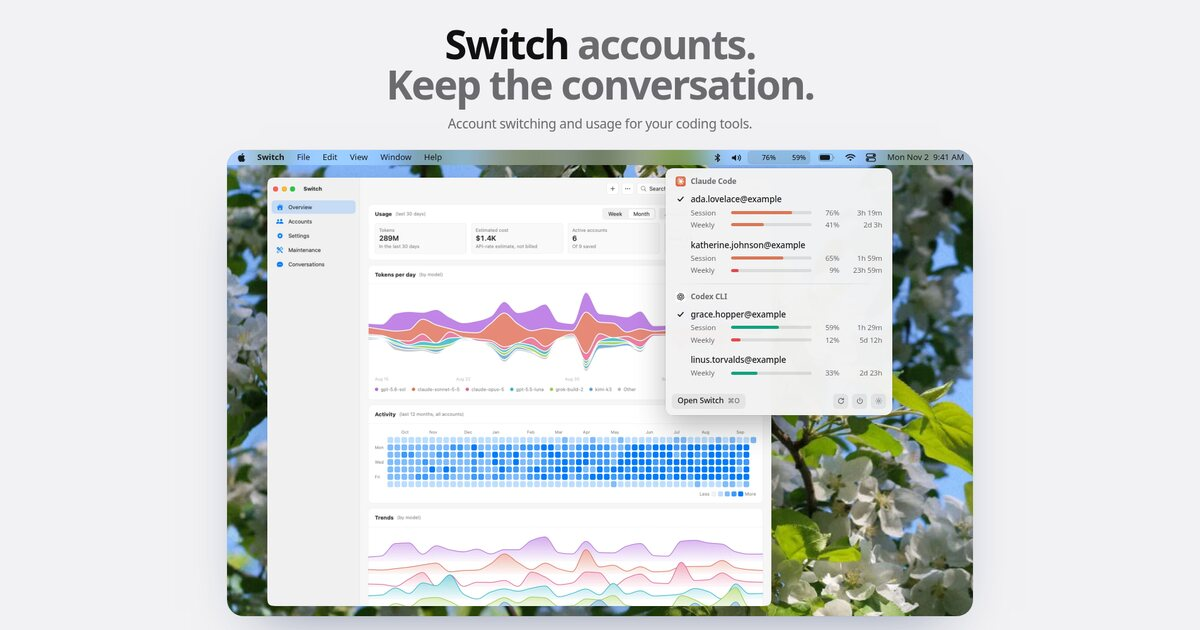
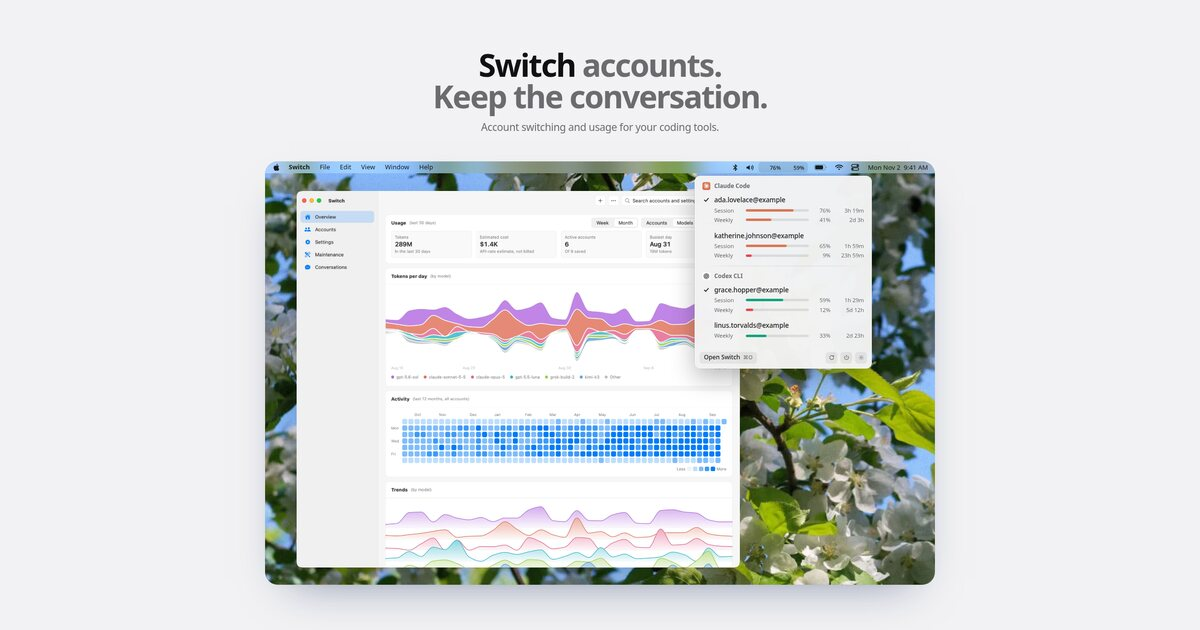
Add a portable installer and give the cover space

diff --git a/specs/product.md b/specs/product.md
@@ -468,21 +468,20 @@ continues), then form/sign-in. Every step has Cancel, Continue, and a small step
 
 ## 5. Terminal distribution
 
-`ai-manager` opens the terminal UI without arguments; `make tui` is the checkout entry.
-Ship the compiled Apple Silicon macOS executable as `@smdl/switch`: npx opens the UI; global
-install exposes `switch` and the `ai-manager` alias. The root README covers all three.
-The package adds no account logic or Swift build step.
+`ai-manager` opens the terminal UI; `make tui` runs it from source. Ship Apple Silicon macOS
+as `@smdl/switch`: npx opens the UI; global installs expose `switch` and `ai-manager`.
+Document all three. The package adds no account logic or Swift build step.
 
 Keep the CLI current with shared-core operations: account naming and order, login code submission,
 all-provider usage, Droid continuity reports, conversations, missions, backups, Cleanup, Claude shell
 integration, and one-shot automatic account selection. Use the same validation, writer guards, and
 recovery checks as the app. Require confirmation for mutations; accept secrets through standard input.
 GUI appearance, menu-bar preferences, notifications, and background scheduling remain app settings.
-Report the CLI version without opening account stores. Provide an explicit standalone update command;
-installing the app alone must not imply that an older command in PATH was updated.
+Report CLI versions without opening account stores. Document standalone updates;
+app installation must not imply that an older PATH command was updated.
 
-Use **09 Amber Menu**: compact provider groups, one inverse selected row, selected account limits.
-Every action, including confirmed deletion, shows full text after a compact glyph. Use only bold,
+Use **09 Amber Menu**: compact provider groups, one inverse selected row, account limits.
+Every action, including confirmed deletion, has full text after a glyph. Use only bold,
 dim, and inverse ANSI, terminal colors, no appearance detection; piped output and `NO_COLOR` are
 plain. The animated loader runs during initial refresh and clears before the menu. Show cached
 limits; never invent usage. Attached terminals use raw input: Up and Down move; Right or Enter
@@ -497,14 +496,16 @@ contract, production and Preview model checks, System, Light, and Dark snapshots
 without privileges or writes. Public releases are Developer ID signed and notarized
 (`release-macos.sh --xcode`). Keep install copy short, with no Gatekeeper warning blocks.
 
-Build, validate, and upload Mac archives on the maintainer's Mac, never GitHub Actions.
-README uses website styling, real app screenshots, concise copy, accurate provider limits, and current Switch downloads.
+Build, check, and upload Mac archives on the maintainer's Mac, never GitHub Actions.
+README uses website styling, real screenshots, concise copy, tool limits, and current downloads.
+Enlarge its cover desktop with vertical space. One shell command installs the Mac app and CLI,
+or Linux CLI. Check download hashes; state architecture and runtime requirements.
 
 Memory: free main window/pages on close or hide to menu bar; login launches build no window.
 Page hosts receive named environment values, never outer `EnvironmentValues` (its tracker grows
 per update). Fail the memory check for a surviving closed window or tracker growth over 1 MB
 in 200 updates/page.
 
-Before installed-app GUI actions, match packaged/installed (`/Applications/Switch.app`) SHA-256,
-embedded/committed revisions, and running binary inode. Fix stale processes/checksum mismatches
-before clicking; record proof in the install receipt.
+Before installed-app GUI actions, match package/install (`/Applications/Switch.app`) SHA-256,
+source revisions, and running binary inode. Fix stale processes or hashes before clicking;
+record proof in the install receipt.

diff --git a/README.md b/README.md
@@ -1,10 +1,10 @@
 <p align="center">
-  <img src="docs/screenshots/cover-website.png" alt="Switch: account switching and usage for AI coding tools" width="100%">
+  <img src="docs/screenshots/cover-spaced.png" alt="Switch: account switching and usage for AI coding tools" width="100%">
 </p>
 
 # Switch
 
-Account switching and usage for AI coding tools. A native macOS app with a menu bar popover and a terminal interface.
+Account switching and usage for AI coding tools. A native macOS app with a menu bar popover, plus a terminal interface for macOS and Linux.
 
 Save accounts, check their limits, and choose which account a supported tool uses. Keep local settings and conversations in place when you switch. Access to cloud conversations still belongs to the provider account.
 
@@ -12,10 +12,16 @@ Save accounts, check their limits, and choose which account a supported tool use
 
 ## Get started
 
-Requires **macOS 14 or later and Apple Silicon**.
+Install with one command:
 
-1. Download the latest release, unzip it, and move `Switch.app` to Applications.
-2. Open Switch and choose **Add Account**. Search for the tool or provider you use.
+```sh
+curl -fsSL https://raw.githubusercontent.com/surajmandalcell/switch/master/install.sh | sh
+```
+
+On **macOS 14 or later with Apple Silicon**, this installs the app in `~/Applications` and the CLI in `~/.local/bin`. On **Linux x86_64 with glibc 2.38 or later**, it installs the CLI. No administrator access is needed. Run the same command to update.
+
+1. On macOS, open Switch from Applications. On Linux, run `~/.local/bin/switch`.
+2. Choose **Add Account** and search for the tool or provider you use.
 3. Follow its sign-in flow, import an existing login, or enter an API key. Adding an account keeps your current login active.
 4. Choose **Check Now** to load usage. For tools with account switching, choose **Switch** in the menu bar or **Make Default** in the app.
 

diff --git a/docs/development.md b/docs/development.md
@@ -158,6 +158,21 @@ workflow has been removed; native CI remains for source checks. If the upload
 fails, keep the files in `release/` and resume from the created tag after
 checking the draft release.
 
+## Install script
+
+`install.sh` downloads pinned release archives and checks their SHA-256 values.
+macOS also checks the developer signature and notarization before installing
+the app into `~/Applications`. Both systems install the CLI under
+`${XDG_DATA_HOME:-~/.local/share}/switch/cli/<version>` and link commands in
+`~/.local/bin`. Linux runtime libraries stay beside the executable.
+The installer does not need sudo, change shell profiles, or touch account data.
+Run `bash scripts/check-installer.sh` for isolated installation and failure checks.
+It currently installs the public Mac app 3.8.2 and CLI 3.9.1. Publish both
+`Switch-cli-v<version>-darwin-arm64.tar.gz` and
+`Switch-cli-v<version>-linux-x86_64.tar.gz`, plus `checksums.txt`, under the
+`cli-v<version>` release. Keep the app ZIP and its checksum under `v<version>`.
+Update the script's pinned versions only after publishing matching assets.
+
 ## README cover
 
 The cover reuses the website hero and its app preview. On the rendering host,
